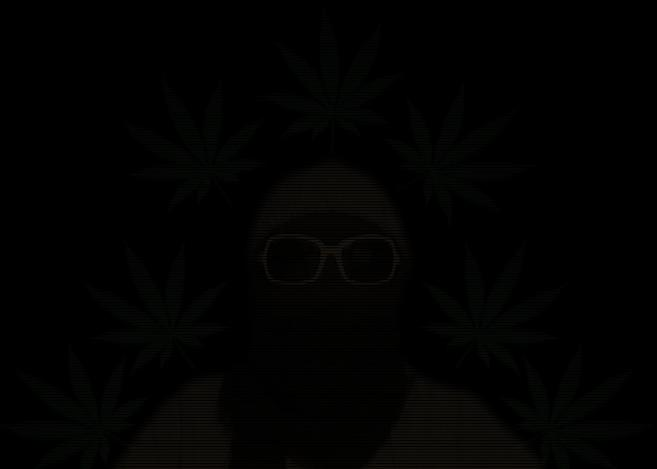
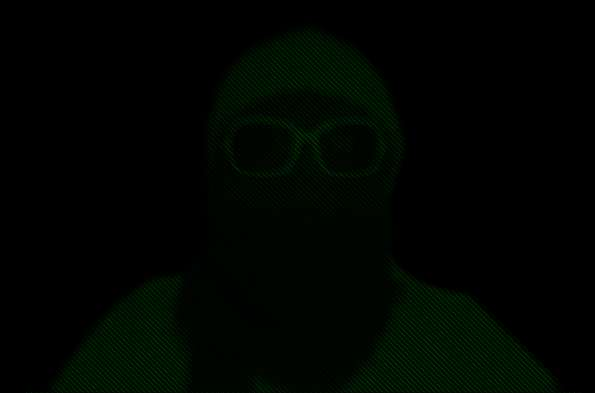
ScarfAce puts his stash away.

diff --git a/installer/resources/themes/console/dark/console.css b/installer/resources/themes/console/dark/console.css
@@ -308,7 +308,7 @@ div.main {
      -moz-border-radius: 0 0 4px 4px;
      -khtml-border-radius: 0 0 4px 4px;
      border-radius: 0 0 4px 4px;
-     background: #000 url(images/scarface.jpg) center bottom no-repeat !important;
+     background: #000 url(images/scarface.jpg) right bottom no-repeat !important;
      min-width: 620px;
      -moz-box-shadow: 0 1px 5px #000;
 }
@@ -396,7 +396,7 @@ div.configure {
      -khtml-border-radius: 4px;
      border-radius: 4px;
      border: 1px solid #494; */
-     background: #000;/* url(images/camotile2.png);*/
+     background: none;/* url(images/camotile2.png);*/
 }
 
 div.messages {
@@ -644,7 +644,7 @@ h1 {
      color: #EE9;
      padding: 16px 15px;
      margin: 0 5px 0px 205px !important;
-     font-size: 16pt;
+     font-size: 17pt;
      font-weight: bold;
      font-style: normal;
      text-transform: uppercase;
@@ -653,7 +653,7 @@ h1 {
      white-space: normal;
      background: #000 url("images/scope.png")no-repeat scroll right top;
      background: #000 url("images/bg2.png")no-repeat scroll top right;
-     background: #000 url('images/header.png') center center ;
+     background: #000 url('images/header.png') center center;
      background-image: -moz-linear-gradient(top, bottom, from(#000), to(#030), color-stop(30%, #000), color-stop(100%, #000));
      border: 1px solid #494;
      border-radius: 4px;
